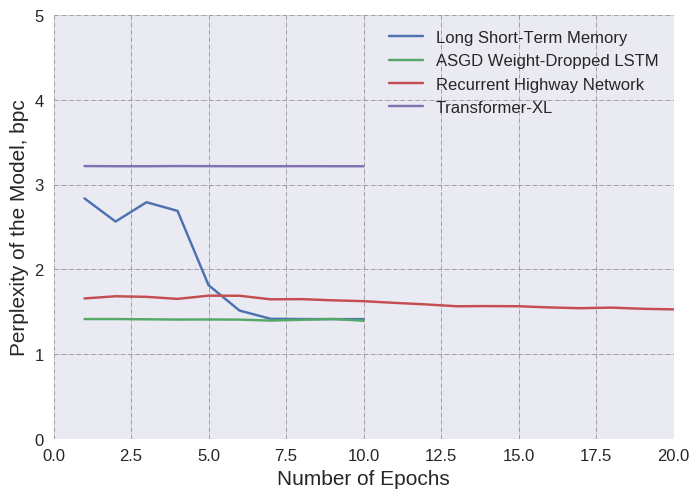
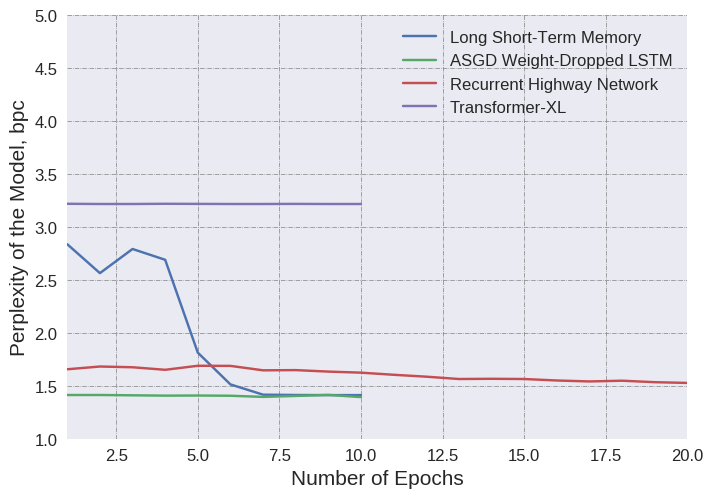
Up

diff --git a/plot_spk_span.py b/plot_spk_span.py
@@ -5,17 +5,17 @@ import matplotlib.pyplot as plt
 import numpy as np
 
 
-# Dataset SP2 20
-y1 = np.array([2.659,2.612,2.601,2.615,1.889,1.598,1.595,1.595,1.594,1.593])
-y2 = np.array([1.923,1.878,1.878,1.831,1.838,1.820,1.795,1.775,1.774,1.775,1.760,1.744,1.733,1.737,1.724,1.706,1.716,1.697,1.697,1.693])
-y3 = np.array([1.624,1.600,1.594,1.606,1.599,1.600,1.593,1.594,1.593,1.593])
-y4 = np.array([3.997,3.995,3.998,3.996,3.996,3.996,3.996,3.996,3.996,3.996])
+# # Dataset SP2 20
+# y1 = np.array([2.659,2.612,2.601,2.615,1.889,1.598,1.595,1.595,1.594,1.593])
+# y2 = np.array([1.923,1.878,1.878,1.831,1.838,1.820,1.795,1.775,1.774,1.775,1.760,1.744,1.733,1.737,1.724,1.706,1.716,1.697,1.697,1.693])
+# y3 = np.array([1.624,1.600,1.594,1.606,1.599,1.600,1.593,1.594,1.593,1.593])
+# y4 = np.array([3.997,3.995,3.998,3.996,3.996,3.996,3.996,3.996,3.996,3.996])
 
-# # Dataset SP2 100
-# y1 = np.array([2.837,2.564,2.792,2.690,1.813,1.513,1.416,1.413,1.412,1.412])
-# y2 = np.array([1.656,1.682,1.675,1.651,1.689,1.688,1.646,1.648,1.634,1.624,1.604,1.586,1.564,1.566,1.564,1.550,1.541,1.548,1.534,1.527])
-# y3 = np.array([1.413,1.413,1.410,1.407,1.408,1.406,1.395,1.404,1.414,1.393])
-# y4 = np.array([3.219,3.217,3.217,3.219,3.218,3.217,3.217,3.218,3.217,3.217])
+# Dataset SP2 100
+y1 = np.array([2.837,2.564,2.792,2.690,1.813,1.513,1.416,1.413,1.412,1.412])
+y2 = np.array([1.656,1.682,1.675,1.651,1.689,1.688,1.646,1.648,1.634,1.624,1.604,1.586,1.564,1.566,1.564,1.550,1.541,1.548,1.534,1.527])
+y3 = np.array([1.413,1.413,1.410,1.407,1.408,1.406,1.395,1.404,1.414,1.393])
+y4 = np.array([3.219,3.217,3.217,3.219,3.218,3.217,3.217,3.218,3.217,3.217])
 
 # # Dataset SP2 200
 # y1 = np.array([2.712,2.680,2.694,2.584,1.745,1.479,1.349,1.342,1,341,1.340])
@@ -45,12 +45,12 @@ with plt.style.context(('seaborn')):
     plt.tick_params(labelsize='large', width=5)
     plt.grid(True)
     plt.grid(which='major', linestyle='-.', linewidth='0.5', color='grey')
-    plt.grid(which='minor', linestyle=':', linewidth='0.2', color='grey')
+    # plt.grid(which='minor', linestyle=':', linewidth='0.2', color='grey')
     ax = plt.axes()
-    ax.set_xlim(0, 20)
-    ax.set_ylim(0, 5)
+    ax.set_xlim(1, 20)
+    ax.set_ylim(1, 5)
     ax.set_xlabel('Number of Epochs', fontsize=15)
     ax.set_ylabel('Perplexity of the Model, bpc', fontsize=15)
     lgd = ax.legend(loc='upper right', shadow=True, fancybox=True, numpoints=1, prop={'size': 12})
-    plt.savefig('peplexity_sp2_20', bbox_extra_artists=(lgd,), bbox_inches='tight')
+    plt.savefig('peplexity_sp2_100', bbox_extra_artists=(lgd,), bbox_inches='tight')
     plt.show()
